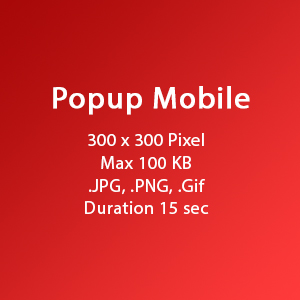
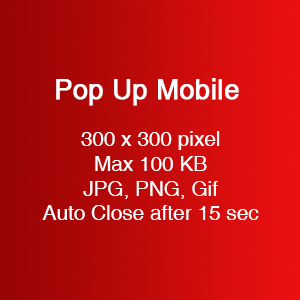
update

diff --git a/adproducts/preview/mobile/popbela/popup.html b/adproducts/preview/mobile/popbela/popup.html
@@ -1770,12 +1770,19 @@ googletag.cmd.push(function(){
     <section class="section__ads">
         
         <div id="idnads_popup" style="position: fixed; width: 300px; height: 300px; top: 50%; left: 50%; margin-left: -150px; margin-top: -120px; z-index: 99999; font-weight: bold; transform: translate(-50%, -50%);">
-		<div onclick="HidePopupjcwtp8()" style="position: absolute;top: -30px!important;left: 0;background: #ed2126;border:none;cursor:pointer;">
+		<div onclick="closePop()" style="position: absolute;top: -30px!important;left: 0;background: #ed2126;border:none;cursor:pointer;">
 			<div style="width:30px!important;height:30px!important;z-index: 999999;color:#fff;background-color: #ed2126;padding: 5px 6px;float:left;" title="Tutup">
 				<i class="fa fa-times" style="font-size:20px;"></i>
 			</div><span style="color:#fff;line-height: 30px;padding: 0 10px;">CLOSE ADS</span>
 		</div><a href="#" style="display:block;width:300px;height:300px;" target="_blank"><img alt="ads" height="300" src="../assets/images/popup.jpg" width="300"></a>
 	</div>
+        
+        <script>
+        function closePop() {
+            document.getElementById("idnads_popup").style.display = "none";
+        }
+        </script>
+
 	
 </section></main>
 

diff --git a/adproducts/preview/mobile/popmama/popup.html b/adproducts/preview/mobile/popmama/popup.html
@@ -1558,14 +1558,18 @@
 
 
 <div id="idnads_popup" style="position: fixed; width: 300px; height: 300px; top: 50%; left: 50%; margin-left: -150px; margin-top: -120px; z-index: 99999; font-weight: bold;">
-		<div onclick="HidePopupjcwtp8()" style="position: absolute;top: -30px!important;left: 0;background: #ed2126;border:none;cursor:pointer;">
+		<div onclick="closePop()" style="position: absolute;top: -30px!important;left: 0;background: #ed2126;border:none;cursor:pointer;">
 			<div style="width:30px!important;height:30px!important;z-index: 999999;color:#fff;background-color: #ed2126;padding: 5px 6px;float:left;" title="Tutup">
 				<i class="fa fa-times" style="font-size:20px;"></i>
 			</div><span style="color:#fff;line-height: 30px;padding: 0 10px;">CLOSE ADS</span>
 		</div><a href="#" style="display:block;width:300px;height:300px;" target="_blank"><img alt="ads" height="300" src="../assets/images/popup.jpg" width="300"></a>
 	</div>
     
-
+<script>
+        function closePop() {
+            document.getElementById("idnads_popup").style.display = "none";
+        }
+        </script>
     
       <div class="search-container">
   <div class="main-container">

diff --git a/adproducts/preview/mobile/idntimes/popup.html b/adproducts/preview/mobile/idntimes/popup.html
@@ -3110,7 +3110,7 @@ function callAnalytics(path, queryString) {
     
     
         <div id="idnads_popup" style="position: fixed; width: 300px; height: 300px; top: 50%; left: 50%; margin-left: -150px; margin-top: -120px; z-index: 99999; font-weight: bold;">
-		<div onclick="HidePopupjcwtp8()" style="position: absolute;top: -30px!important;left: 0;background: #ed2126;border:none;cursor:pointer;">
+		<div onclick="closePop()" style="position: absolute;top: -30px!important;left: 0;background: #ed2126;border:none;cursor:pointer;">
 			<div style="width:30px!important;height:30px!important;z-index: 999999;color:#fff;background-color: #ed2126;padding: 5px 6px;float:left;" title="Tutup">
 				<i class="fa fa-times" style="font-size:20px;"></i>
 			</div><span style="color:#fff;line-height: 30px;padding: 0 10px;">CLOSE ADS</span>
@@ -3118,7 +3118,11 @@ function callAnalytics(path, queryString) {
 	</div>
     
     
-    
+    <script>
+        function closePop() {
+            document.getElementById("idnads_popup").style.display = "none";
+        }
+        </script>
     
     
     

diff --git a/adproducts/page/idntimes/off-act-ims.html b/adproducts/page/idntimes/off-act-ims.html
@@ -32,7 +32,7 @@
                                 <li>Indonesia Millennial Summit is an independent summit by IDN Times committed to shaping Indonesia’s future by bringing together leaders from all across the archipelago and across disciplines. </li><br>
                                 <li>This multi-stakeholders approach will involve leaders from Academics, Athletes, Government Officials, Business Leaders, NGO Leaders, Social Entrepreneurs, Artists, Religious Leaders, and Media Leaders and will provide space for unique idea and solution to flourish. </li>
                             </ul> 
-                            <a href="https://ims.idntimes.com/" target="_blank" class="preview animated bounceIn delay-2s">More About IMS</a> 
+                            <a href="https://www.youtube.com/watch?v=gttTjnlxQBQ&feature=youtu.be&t=9527" target="_blank" class="preview animated bounceIn delay-2s">More About IMS</a> 
                         </div>
                     </div>
                 </div>  

diff --git a/adproducts/page/m.popbela/popup.html b/adproducts/page/m.popbela/popup.html
@@ -49,7 +49,7 @@
                 </div>  
             </div>           
         </section>
-
+        <script src="../assets/js/main.js"></script>
         <!-- Bootstrap core JavaScript -->
         <script src="../assets/js/jquery.min.js"></script>
         <script src="../assets/js/bootstrap.bundle.min.js"></script>
